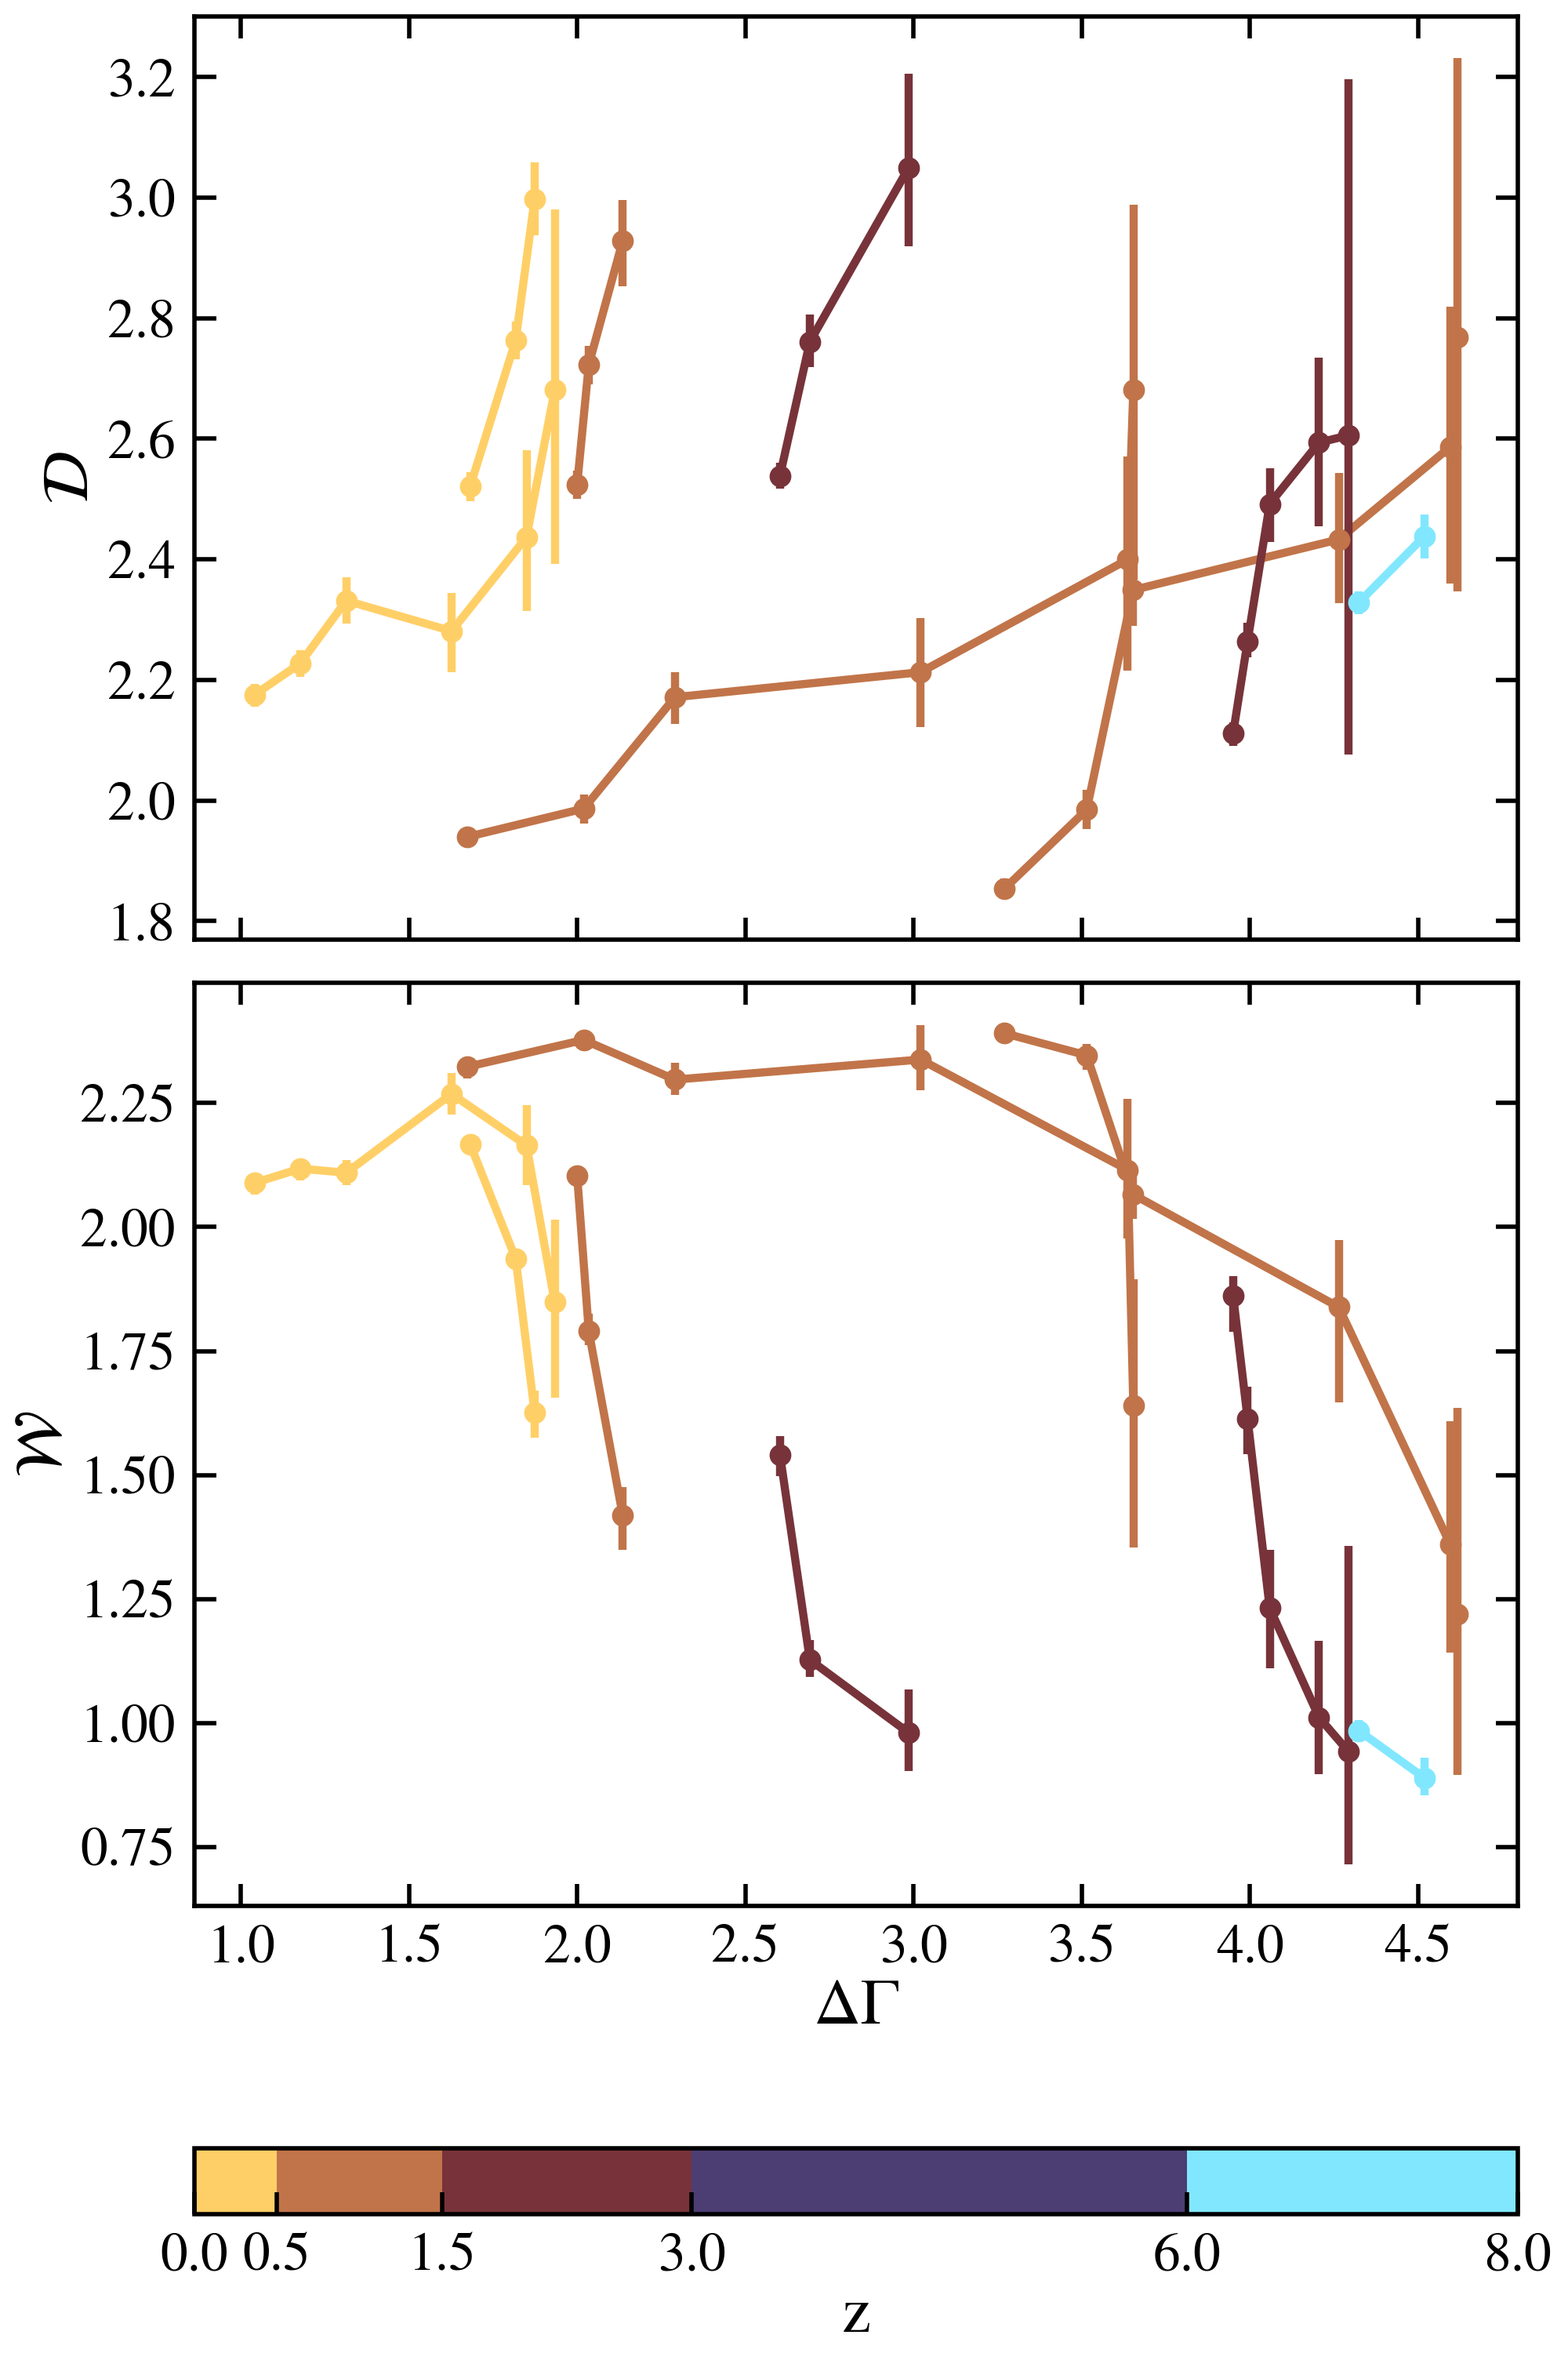
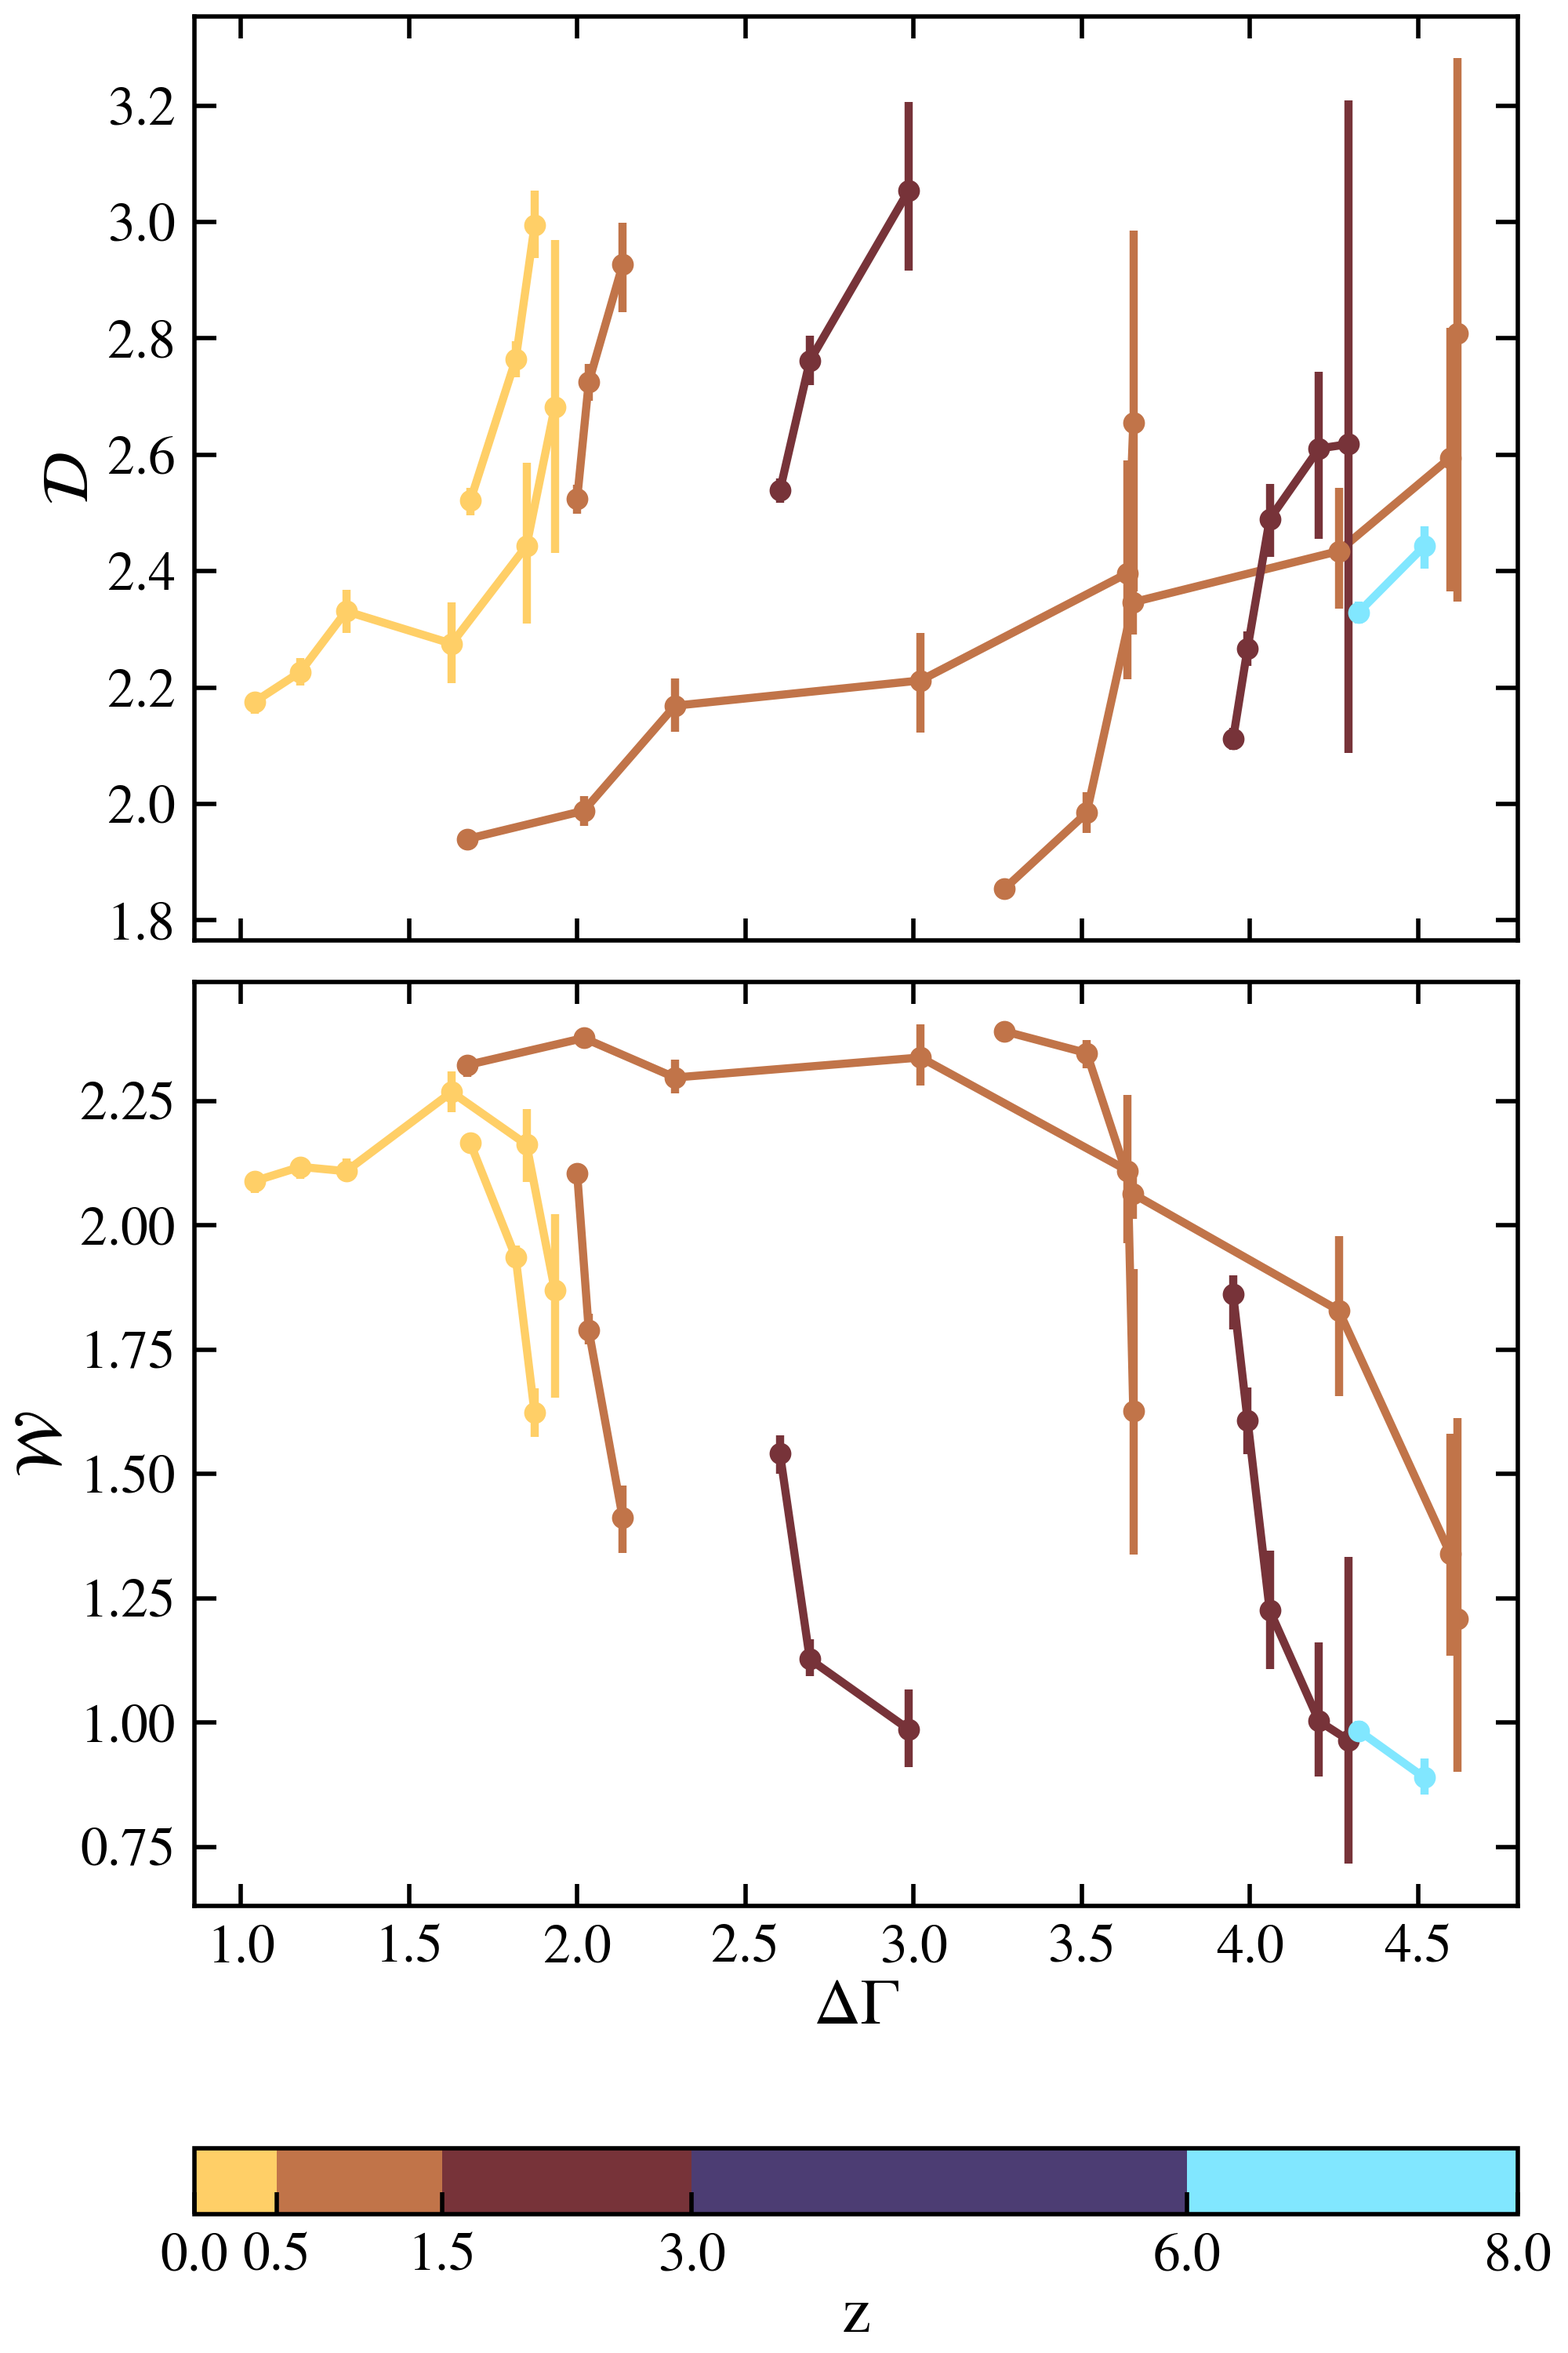
new abs depth plots

diff --git a/code/paper_plot/fig8.py b/code/paper_plot/fig8.py
@@ -1,4 +1,4 @@
-""""This script plots depth (top panel) and width (bottom panel) as a function of mass for a few redshifts.
+""""This script plots the absolute depth as a function of mass for a few redshifts.
     Both Hydro and DM-only simulations."""
 
 import os
@@ -10,7 +10,7 @@ plt.style.use('code/style.mplstyle')
 from func import *
 
 print('')
-print('>>> Plot Depth and width vs mass for a few redshifts <<<')
+print('>>> Plot absolute depth vs mass for a few redshifts <<<')
 print('')
 
 root_dir = 'result/bootstrap_stats_phys/'
@@ -19,7 +19,7 @@ root_dir = 'result/bootstrap_stats_phys/'
 # Set up the plot
 # ============================================================================================
 
-fig, axs = plt.subplots(2, 1, figsize=(4, 6), dpi=500, sharex=True, constrained_layout=True)
+fig, axs = plt.subplots(1, 1, figsize=(4, 3.5), dpi=500, sharex=True, constrained_layout=True)
 
 # ============================================================================================
 # Set up the colorbar
@@ -73,29 +73,24 @@ def load_stats(dir, snap):
         
         return z, mass_bins, final_results
 
-def plot_depth(z, mass_bins, final_results, simu):
+def plot_abs_depth(z, mass_bins, final_results, simu):
         if simu == 'DM':
                 ls = '--'
         else:
                 ls = '-'
-                       
-        axs[0].plot(mass_bins, final_results[:, 1, 1], color=cmap(norm(z)), lw=1, alpha=0.5, linestyle=ls) 
-        axs[0].errorbar(mass_bins, final_results[:, 1, 1],
-                        yerr=[final_results[:, 1, 1]-final_results[:, 1, 0], 
-                              final_results[:, 1, 2]-final_results[:, 1, 1]],
-                        color=cmap(norm(z)), fmt='.')
         
-def plot_width(z, mass_bins, final_results, simu):
-        if simu == 'DM':
-                ls = '--'
-        else:
-                ls = '-'
-                       
-        axs[1].plot(mass_bins, final_results[:, 2, 1], color=cmap(norm(z)), lw=1, alpha=0.5, linestyle=ls) 
-        axs[1].errorbar(mass_bins, final_results[:, 2, 1],
-                        yerr=[final_results[:, 2, 1]-final_results[:, 2, 0], 
-                              final_results[:, 2, 2]-final_results[:, 2, 1]],
+        # -----------------------------------------------------------------------------------------
+        axs.plot(mass_bins, final_results[:, 4, 1], color=cmap(norm(z)), lw=1, alpha=0.5, linestyle=ls) 
+        axs.errorbar(mass_bins, final_results[:, 4, 1],
+                        yerr=[final_results[:, 4, 1]-final_results[:, 4, 0], 
+                              final_results[:, 4, 2]-final_results[:, 4, 1]],
                         color=cmap(norm(z)), fmt='.')
+        # axs.plot(mass_bins, abs(final_results[:, 4, 1]), color=cmap(norm(z)), lw=1, alpha=0.5, linestyle=ls) 
+        # axs.errorbar(mass_bins, abs(final_results[:, 4, 1]),
+        #                 yerr=[abs(final_results[:, 4, 1]-final_results[:, 4, 0]), 
+        #                       abs(final_results[:, 4, 2]-final_results[:, 4, 1])],
+        #                 color=cmap(norm(z)), fmt='.')
+        # -----------------------------------------------------------------------------------------
                 
 simus = ['Hydro', 
          # 'DM'
@@ -106,22 +101,17 @@ for simu in simus:
         for snap in TNG300_snaps:
                 TNG300_dir = f'{root_dir}/TNG300/sim_205_1250_{simu}/Nboots_1024/'
                 TNG300_z, TNG300_mass_bins, TNG300_final_results = load_stats(TNG300_dir, snap)
-                plot_depth(TNG300_z, TNG300_mass_bins, TNG300_final_results, simu)
-                plot_width(TNG300_z, TNG300_mass_bins, TNG300_final_results, simu)
+                plot_abs_depth(TNG300_z, TNG300_mass_bins, TNG300_final_results, simu)
                 
         # Plot MTNG
         for snap in MTNG_snaps:
                 MTNG_dir = f'{root_dir}/MTNG/{simu}-Arepo/MTNG-L500-4320-A/Nboots_1024/'
                 MTNG_z, MTNG_mass_bins, MTNG_final_results = load_stats(MTNG_dir, snap)
-                plot_depth(MTNG_z, MTNG_mass_bins, MTNG_final_results, simu)
-                plot_width(MTNG_z, MTNG_mass_bins, MTNG_final_results, simu)
+                plot_abs_depth(MTNG_z, MTNG_mass_bins, MTNG_final_results, simu)
 
-axs[0].set_xscale('log')
-axs[0].set_ylabel(r"$\mathcal{D}$")
-
-axs[1].set_xscale('log')
-axs[1].set_xlabel('Mass [$M_\\odot$]')
-axs[1].set_ylabel(r"$\mathcal{W}$")
+axs.set_xscale('log')
+axs.set_ylabel(r"abs $\mathcal{D}$")
+axs.set_xlabel('Mass [$M_\\odot$]')
 
 # ============================================================================================
 # Save the plot
@@ -131,5 +121,5 @@ save_dir = f'result/paper_plots/'
 if not os.path.exists(save_dir):
     os.makedirs(save_dir)
 
-plt.savefig(f'{save_dir}/fig3')
+plt.savefig(f'{save_dir}/fig8')
 plt.close()

diff --git a/code/paper_plot/fig9.py b/code/paper_plot/fig9.py
@@ -1,0 +1,116 @@
+""""This script plots absolute depth as a function of redshift for a few mass cuts.
+    Hydro simulation only."""
+
+import os
+import numpy as np
+from func import *
+from matplotlib import cm
+from matplotlib import pyplot as plt 
+from matplotlib.colors import BoundaryNorm
+plt.style.use('code/style.mplstyle')
+
+print('')
+print(f'>>> Plot abs depth vs z <<<')
+print('')
+
+root_dir = 'result/bootstrap_stats_phys/'
+
+# ============================================================================================
+# Loadd data 
+# ============================================================================================
+
+# Load TNG300
+TNG300_dir = f'{root_dir}/TNG300/sim_205_1250_Hydro/Nboots_1024/'
+TNG300_list = os.listdir(TNG300_dir)
+
+TNG300_snaps = [99, 78, 67, 50, 40, 33, 25, 21, 17, 13, 8]
+
+TNG300_z, TNG300_bins, TNG300_data = load_data(TNG300_dir, TNG300_snaps)
+
+# Load MTNG
+MTNG_dir = f'{root_dir}/MTNG/Hydro-Arepo/MTNG-L500-4320-A/Nboots_1024/'
+MTNG_list = os.listdir(MTNG_dir)
+
+MTNG_snaps = [264, 237, 214, 179, 151, 129]
+
+MTNG_z, MTNG_bins, MTNG_data = load_data(MTNG_dir, MTNG_snaps)
+
+# Concatenate all data
+z = np.concatenate((TNG300_z, MTNG_z))
+data = np.concatenate((TNG300_data, MTNG_data), axis=0)
+
+bins = np.concatenate((TNG300_bins, MTNG_bins))
+bins = np.log10(bins)
+uniq_bins = np.unique(bins)
+
+# ============================================================================================
+# Set up the plot
+# ============================================================================================
+
+fig, axs = plt.subplots(1, 1, figsize = (4, 3.5), dpi=500, sharex=True, constrained_layout=True)
+    
+# Set up the colorbar
+min_bin, max_bin = 9, 15
+num_bins = int((max_bin - min_bin)/0.5)
+
+cmap = plt.get_cmap('vanimo', num_bins)
+# from matplotlib.colors import LinearSegmentedColormap
+# red_list = [# '#EE9D9F', '#DE6A69', 
+#             '#C84747', '#982B2D','#6A0624', '#3D011A'] # light to dark
+# blue_list = ['#89CAEA','#4596CD','#0B75B3','#015696','#012A61','#053061', ] # light to dark
+# cmap = LinearSegmentedColormap.from_list('my_cmap', blue_list)
+
+bound = np.logspace(min_bin, max_bin+0.1, num_bins) 
+norm = BoundaryNorm(bound, cmap.N)
+cb = fig.colorbar(cm.ScalarMappable(norm=norm, cmap=cmap),
+                  ax=axs, orientation='horizontal', spacing='proportional', ticks=bound)
+cb.set_label('Mass [$M_\\odot$]')
+cb._set_scale('log')
+
+# ============================================================================================
+# Plot
+# ============================================================================================
+
+# Iterate over mass bins
+for b in uniq_bins:
+    print('mass cut: ', b)
+    idx = np.where(bins == b)
+    
+    current_z = z[idx]
+    current_data = data[idx]
+    
+    # Plot SORTED data
+    sorted_idx = np.argsort(current_z)
+    # Plot abs depth
+    # -----------------------------------------------------------------------------------------
+    axs.plot(current_z[sorted_idx], current_data[:, 4, 1][sorted_idx], color=cmap(norm(10**b)), 
+                lw=1, alpha=0.5) 
+    axs.errorbar(current_z[sorted_idx], current_data[:, 4, 1][sorted_idx], 
+                yerr=[current_data[:, 4, 1][sorted_idx]-current_data[:, 4, 0][sorted_idx], 
+                      current_data[:, 4, 2][sorted_idx]-current_data[:, 4, 1][sorted_idx]],
+                fmt='.', color=cmap(norm(10**b))
+                    )
+    # axs.plot(current_z[sorted_idx], abs(current_data[:, 4, 1][sorted_idx]), color=cmap(norm(10**b)), 
+    #             lw=1, alpha=0.5) 
+    # axs.errorbar(current_z[sorted_idx], abs(current_data[:, 4, 1][sorted_idx]), 
+    #             yerr=[abs(current_data[:, 4, 1][sorted_idx]-current_data[:, 4, 0][sorted_idx]), 
+    #                   abs(current_data[:, 4, 2][sorted_idx]-current_data[:, 4, 1][sorted_idx])],
+    #             fmt='.', color=cmap(norm(10**b))
+    #                 )
+    # -----------------------------------------------------------------------------------------
+    
+# Final edit
+axs.set_ylabel(r"$\mathcal{D}$")
+axs.set_xlabel('z')
+
+# ============================================================================================
+# Save the plot
+# ============================================================================================
+
+save_dir = f'result/paper_plots/'
+if not os.path.exists(save_dir):
+    os.makedirs(save_dir)
+
+# plt.tight_layout()
+plt.savefig(f'{save_dir}/fig9.png')
+plt.close()

diff --git a/code/paper_plot/fig3_1.py b/code/paper_plot/fig3_1.py
@@ -60,6 +60,7 @@ from matplotlib.ticker import FuncFormatter
 def custom_format(x, pos):
     return f'{x:.1f}'  
 cb.ax.xaxis.set_major_formatter(FuncFormatter(custom_format)) 
+cb.ax.tick_params(axis='x', rotation=70) 
 cb.set_label('z')
 
 # ============================================================================================
